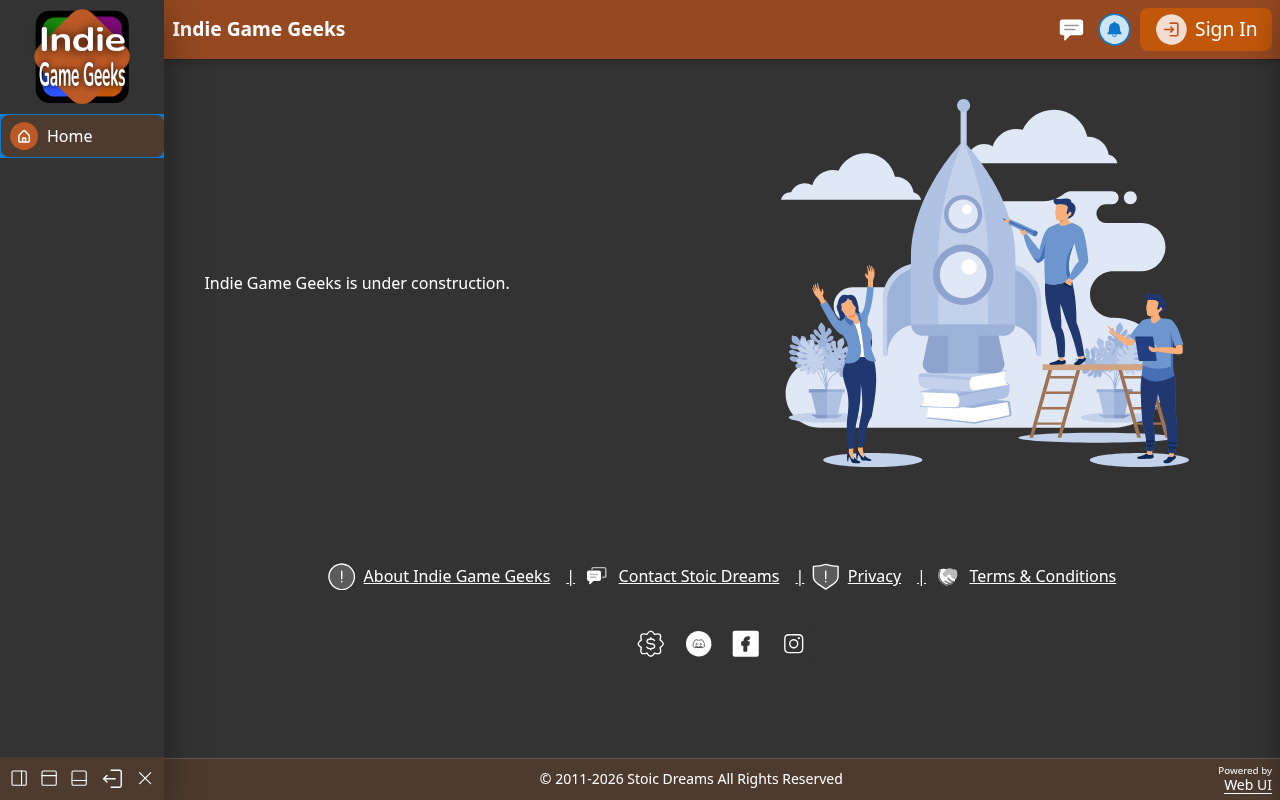
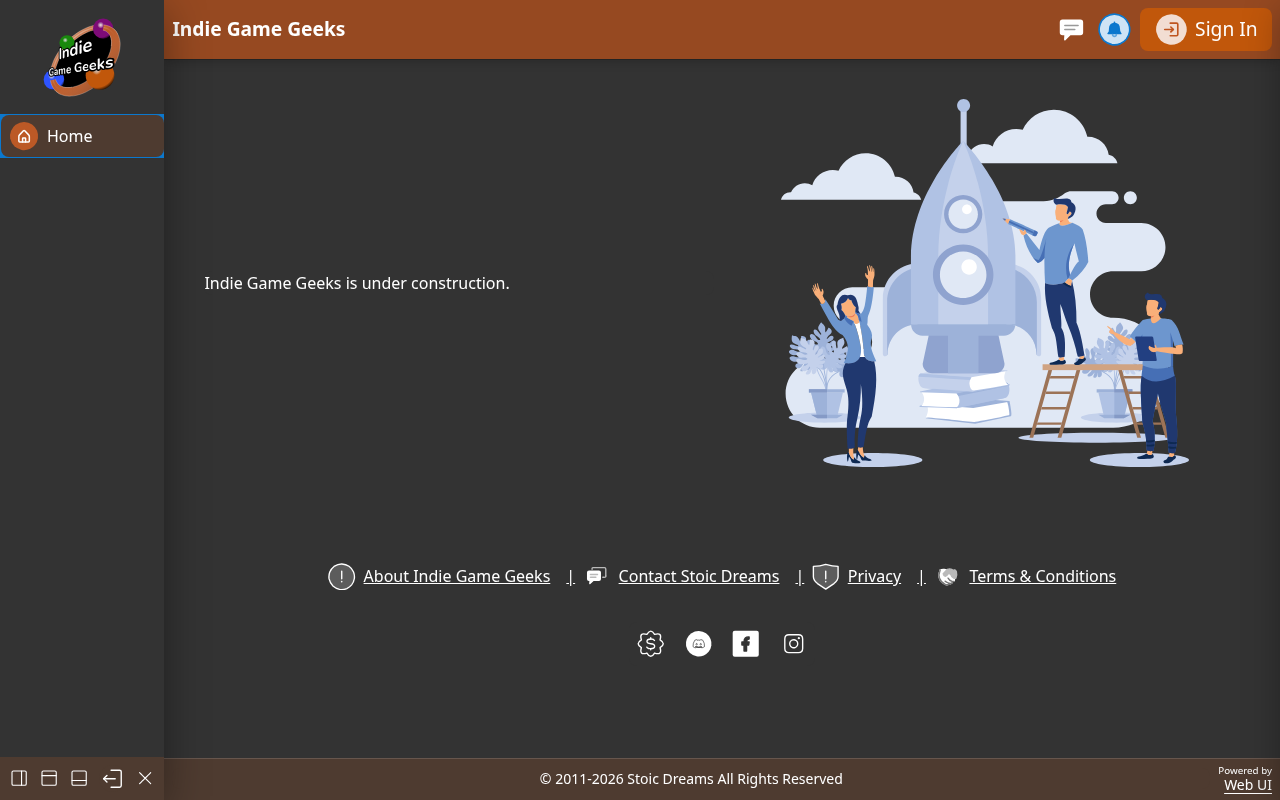
Various updates

Changed region(s): [[0.0, 0.0, 0.125, 0.1562]]

diff --git a/webapp/pages/index.html b/webapp/pages/index.html
@@ -8,7 +8,9 @@
 	<!-- Google tag (gtag.js) -->
 	<script async src="https://www.googletagmanager.com/gtag/js?id=G-653XYE3DV9"></script>
 	<script>
-		if (location.hostname !== 'localhost') {
+		// Pages opened on this machine or another device on the home network load Web UI from the local MyFiCDN server and skip analytics.
+		window.webuiLocal = /^(localhost|127\.0\.0\.1|\[::1\]|10(\.\d+){3}|192\.168(\.\d+){2}|172\.(1[6-9]|2\d|3[01])(\.\d+){2}|[\w-]+\.local)$/.test(location.hostname);
+		if (!webuiLocal) {
 			window.dataLayer = window.dataLayer || [];
 			function gtag() { dataLayer.push(arguments); }
 			gtag('js', new Date());
@@ -21,7 +23,7 @@
 	<meta name="robots" content="index, follow">
 	<base href="/" />
 	<script type="text/javascript">
-		navigator.serviceWorker.register('service-worker.min.js');
+		navigator.serviceWorker?.register('service-worker.min.js');
 	</script>
 
 	<link rel="dns-prefetch" href="https://cdn.myfi.ws" />
@@ -29,13 +31,14 @@
 	<link rel="preconnect" href="https://cdn.myfi.ws">
 	<link rel="preconnect" href="https://api.myfi.ws">
 
-	<link href="Logo.svg?v=05240021df" rel="icon" type="image/svg+xml" sizes="any" />
+	<link href="Logo.svg?v=40eb243e3e" rel="icon" type="image/svg+xml" sizes="any" />
 	<link rel="manifest" href="app.webmanifest?v=02bcce253b">
 
 	<script>
-		// Web UI loads from the local MyFiCDN server (MyFiCDN/PowerShell/RunLocal.ps1) when the site runs on localhost,
+		// Web UI loads from the local MyFiCDN server (MyFiCDN/PowerShell/RunLocal.ps1) when the site runs locally (through /webui-cdn/ on
+		// another device, which RunLocal.ps1 -Network passes on to it),
 		// so framework changes show before they are published, and from cdn.myfi.ws everywhere else.
-		window.webuiCdn = /^(localhost|127\.0\.0\.1|\[::1\])$/.test(location.hostname) ? 'http://localhost:3180/' : 'https://cdn.myfi.ws/';
+		window.webuiCdn = /^(localhost|127\.0\.0\.1|\[::1\])$/.test(location.hostname) ? 'http://localhost:3180/' : webuiLocal ? '/webui-cdn/' : 'https://cdn.myfi.ws/';
 		document.write('<link href="' + webuiCdn + 'css/webui.min.css" rel="stylesheet" />');
 	</script>
 	<link href="css/app.min.css?v=2acc3664b9" rel="stylesheet" />
@@ -80,7 +83,7 @@
 	<link rel="preload" as="script" href="https://cdn.myfi.ws/webui/stoic-dreams-logo.min.js" crossorigin="anonymous" />
 	<link rel="preload" as="script" href="https://cdn.myfi.ws/webui/stoic-social-links.min.js" crossorigin="anonymous" />
 	<link rel="preload" as="script" href="https://cdn.myfi.ws/webui/under-construction.min.js" crossorigin="anonymous" />
-	<meta name="webui-prerender" content="63a9bd2002">
+	<meta name="webui-prerender" content="30a85c6f8f">
 </head>
 
 <body>

diff --git a/webapp/pages/about.html b/webapp/pages/about.html
@@ -8,7 +8,9 @@
 	<!-- Google tag (gtag.js) -->
 	<script async src="https://www.googletagmanager.com/gtag/js?id=G-653XYE3DV9"></script>
 	<script>
-		if (location.hostname !== 'localhost') {
+		// Pages opened on this machine or another device on the home network load Web UI from the local MyFiCDN server and skip analytics.
+		window.webuiLocal = /^(localhost|127\.0\.0\.1|\[::1\]|10(\.\d+){3}|192\.168(\.\d+){2}|172\.(1[6-9]|2\d|3[01])(\.\d+){2}|[\w-]+\.local)$/.test(location.hostname);
+		if (!webuiLocal) {
 			window.dataLayer = window.dataLayer || [];
 			function gtag() { dataLayer.push(arguments); }
 			gtag('js', new Date());
@@ -21,7 +23,7 @@
 	<meta name="robots" content="index, follow">
 	<base href="/" />
 	<script type="text/javascript">
-		navigator.serviceWorker.register('service-worker.min.js');
+		navigator.serviceWorker?.register('service-worker.min.js');
 	</script>
 
 	<link rel="dns-prefetch" href="https://cdn.myfi.ws" />
@@ -29,13 +31,14 @@
 	<link rel="preconnect" href="https://cdn.myfi.ws">
 	<link rel="preconnect" href="https://api.myfi.ws">
 
-	<link href="Logo.svg?v=05240021df" rel="icon" type="image/svg+xml" sizes="any" />
+	<link href="Logo.svg?v=40eb243e3e" rel="icon" type="image/svg+xml" sizes="any" />
 	<link rel="manifest" href="app.webmanifest?v=02bcce253b">
 
 	<script>
-		// Web UI loads from the local MyFiCDN server (MyFiCDN/PowerShell/RunLocal.ps1) when the site runs on localhost,
+		// Web UI loads from the local MyFiCDN server (MyFiCDN/PowerShell/RunLocal.ps1) when the site runs locally (through /webui-cdn/ on
+		// another device, which RunLocal.ps1 -Network passes on to it),
 		// so framework changes show before they are published, and from cdn.myfi.ws everywhere else.
-		window.webuiCdn = /^(localhost|127\.0\.0\.1|\[::1\])$/.test(location.hostname) ? 'http://localhost:3180/' : 'https://cdn.myfi.ws/';
+		window.webuiCdn = /^(localhost|127\.0\.0\.1|\[::1\])$/.test(location.hostname) ? 'http://localhost:3180/' : webuiLocal ? '/webui-cdn/' : 'https://cdn.myfi.ws/';
 		document.write('<link href="' + webuiCdn + 'css/webui.min.css" rel="stylesheet" />');
 	</script>
 	<link href="css/app.min.css?v=2acc3664b9" rel="stylesheet" />
@@ -81,7 +84,7 @@
 	<link rel="preload" as="script" href="https://cdn.myfi.ws/webui/page-footer.min.js" crossorigin="anonymous" />
 	<link rel="preload" as="script" href="https://cdn.myfi.ws/webui/stoic-dreams-logo.min.js" crossorigin="anonymous" />
 	<link rel="preload" as="script" href="https://cdn.myfi.ws/webui/stoic-social-links.min.js" crossorigin="anonymous" />
-	<meta name="webui-prerender" content="0a70a27a9e">
+	<meta name="webui-prerender" content="39973f17a1">
 </head>
 
 <body>

diff --git a/webapp/pages/contact.html b/webapp/pages/contact.html
@@ -8,7 +8,9 @@
 	<!-- Google tag (gtag.js) -->
 	<script async src="https://www.googletagmanager.com/gtag/js?id=G-653XYE3DV9"></script>
 	<script>
-		if (location.hostname !== 'localhost') {
+		// Pages opened on this machine or another device on the home network load Web UI from the local MyFiCDN server and skip analytics.
+		window.webuiLocal = /^(localhost|127\.0\.0\.1|\[::1\]|10(\.\d+){3}|192\.168(\.\d+){2}|172\.(1[6-9]|2\d|3[01])(\.\d+){2}|[\w-]+\.local)$/.test(location.hostname);
+		if (!webuiLocal) {
 			window.dataLayer = window.dataLayer || [];
 			function gtag() { dataLayer.push(arguments); }
 			gtag('js', new Date());
@@ -21,7 +23,7 @@
 	<meta name="robots" content="index, follow">
 	<base href="/" />
 	<script type="text/javascript">
-		navigator.serviceWorker.register('service-worker.min.js');
+		navigator.serviceWorker?.register('service-worker.min.js');
 	</script>
 
 	<link rel="dns-prefetch" href="https://cdn.myfi.ws" />
@@ -29,13 +31,14 @@
 	<link rel="preconnect" href="https://cdn.myfi.ws">
 	<link rel="preconnect" href="https://api.myfi.ws">
 
-	<link href="Logo.svg?v=05240021df" rel="icon" type="image/svg+xml" sizes="any" />
+	<link href="Logo.svg?v=40eb243e3e" rel="icon" type="image/svg+xml" sizes="any" />
 	<link rel="manifest" href="app.webmanifest?v=02bcce253b">
 
 	<script>
-		// Web UI loads from the local MyFiCDN server (MyFiCDN/PowerShell/RunLocal.ps1) when the site runs on localhost,
+		// Web UI loads from the local MyFiCDN server (MyFiCDN/PowerShell/RunLocal.ps1) when the site runs locally (through /webui-cdn/ on
+		// another device, which RunLocal.ps1 -Network passes on to it),
 		// so framework changes show before they are published, and from cdn.myfi.ws everywhere else.
-		window.webuiCdn = /^(localhost|127\.0\.0\.1|\[::1\])$/.test(location.hostname) ? 'http://localhost:3180/' : 'https://cdn.myfi.ws/';
+		window.webuiCdn = /^(localhost|127\.0\.0\.1|\[::1\])$/.test(location.hostname) ? 'http://localhost:3180/' : webuiLocal ? '/webui-cdn/' : 'https://cdn.myfi.ws/';
 		document.write('<link href="' + webuiCdn + 'css/webui.min.css" rel="stylesheet" />');
 	</script>
 	<link href="css/app.min.css?v=2acc3664b9" rel="stylesheet" />
@@ -81,7 +84,7 @@
 	<link rel="preload" as="script" href="https://cdn.myfi.ws/webui/page-footer.min.js" crossorigin="anonymous" />
 	<link rel="preload" as="script" href="https://cdn.myfi.ws/webui/stoic-dreams-logo.min.js" crossorigin="anonymous" />
 	<link rel="preload" as="script" href="https://cdn.myfi.ws/webui/stoic-social-links.min.js" crossorigin="anonymous" />
-	<meta name="webui-prerender" content="fd07581190">
+	<meta name="webui-prerender" content="636a3187a2">
 </head>
 
 <body>

diff --git a/webapp/pages/privacy.html b/webapp/pages/privacy.html
@@ -8,7 +8,9 @@
 	<!-- Google tag (gtag.js) -->
 	<script async src="https://www.googletagmanager.com/gtag/js?id=G-653XYE3DV9"></script>
 	<script>
-		if (location.hostname !== 'localhost') {
+		// Pages opened on this machine or another device on the home network load Web UI from the local MyFiCDN server and skip analytics.
+		window.webuiLocal = /^(localhost|127\.0\.0\.1|\[::1\]|10(\.\d+){3}|192\.168(\.\d+){2}|172\.(1[6-9]|2\d|3[01])(\.\d+){2}|[\w-]+\.local)$/.test(location.hostname);
+		if (!webuiLocal) {
 			window.dataLayer = window.dataLayer || [];
 			function gtag() { dataLayer.push(arguments); }
 			gtag('js', new Date());
@@ -21,7 +23,7 @@
 	<meta name="robots" content="index, follow">
 	<base href="/" />
 	<script type="text/javascript">
-		navigator.serviceWorker.register('service-worker.min.js');
+		navigator.serviceWorker?.register('service-worker.min.js');
 	</script>
 
 	<link rel="dns-prefetch" href="https://cdn.myfi.ws" />
@@ -29,13 +31,14 @@
 	<link rel="preconnect" href="https://cdn.myfi.ws">
 	<link rel="preconnect" href="https://api.myfi.ws">
 
-	<link href="Logo.svg?v=05240021df" rel="icon" type="image/svg+xml" sizes="any" />
+	<link href="Logo.svg?v=40eb243e3e" rel="icon" type="image/svg+xml" sizes="any" />
 	<link rel="manifest" href="app.webmanifest?v=02bcce253b">
 
 	<script>
-		// Web UI loads from the local MyFiCDN server (MyFiCDN/PowerShell/RunLocal.ps1) when the site runs on localhost,
+		// Web UI loads from the local MyFiCDN server (MyFiCDN/PowerShell/RunLocal.ps1) when the site runs locally (through /webui-cdn/ on
+		// another device, which RunLocal.ps1 -Network passes on to it),
 		// so framework changes show before they are published, and from cdn.myfi.ws everywhere else.
-		window.webuiCdn = /^(localhost|127\.0\.0\.1|\[::1\])$/.test(location.hostname) ? 'http://localhost:3180/' : 'https://cdn.myfi.ws/';
+		window.webuiCdn = /^(localhost|127\.0\.0\.1|\[::1\])$/.test(location.hostname) ? 'http://localhost:3180/' : webuiLocal ? '/webui-cdn/' : 'https://cdn.myfi.ws/';
 		document.write('<link href="' + webuiCdn + 'css/webui.min.css" rel="stylesheet" />');
 	</script>
 	<link href="css/app.min.css?v=2acc3664b9" rel="stylesheet" />
@@ -81,7 +84,7 @@
 	<link rel="preload" as="script" href="https://cdn.myfi.ws/webui/page-footer.min.js" crossorigin="anonymous" />
 	<link rel="preload" as="script" href="https://cdn.myfi.ws/webui/stoic-dreams-logo.min.js" crossorigin="anonymous" />
 	<link rel="preload" as="script" href="https://cdn.myfi.ws/webui/stoic-social-links.min.js" crossorigin="anonymous" />
-	<meta name="webui-prerender" content="28bc228921">
+	<meta name="webui-prerender" content="72263a2b95">
 </head>
 
 <body>

diff --git a/webapp/pages/terms.html b/webapp/pages/terms.html
@@ -8,7 +8,9 @@
 	<!-- Google tag (gtag.js) -->
 	<script async src="https://www.googletagmanager.com/gtag/js?id=G-653XYE3DV9"></script>
 	<script>
-		if (location.hostname !== 'localhost') {
+		// Pages opened on this machine or another device on the home network load Web UI from the local MyFiCDN server and skip analytics.
+		window.webuiLocal = /^(localhost|127\.0\.0\.1|\[::1\]|10(\.\d+){3}|192\.168(\.\d+){2}|172\.(1[6-9]|2\d|3[01])(\.\d+){2}|[\w-]+\.local)$/.test(location.hostname);
+		if (!webuiLocal) {
 			window.dataLayer = window.dataLayer || [];
 			function gtag() { dataLayer.push(arguments); }
 			gtag('js', new Date());
@@ -21,7 +23,7 @@
 	<meta name="robots" content="index, follow">
 	<base href="/" />
 	<script type="text/javascript">
-		navigator.serviceWorker.register('service-worker.min.js');
+		navigator.serviceWorker?.register('service-worker.min.js');
 	</script>
 
 	<link rel="dns-prefetch" href="https://cdn.myfi.ws" />
@@ -29,13 +31,14 @@
 	<link rel="preconnect" href="https://cdn.myfi.ws">
 	<link rel="preconnect" href="https://api.myfi.ws">
 
-	<link href="Logo.svg?v=05240021df" rel="icon" type="image/svg+xml" sizes="any" />
+	<link href="Logo.svg?v=40eb243e3e" rel="icon" type="image/svg+xml" sizes="any" />
 	<link rel="manifest" href="app.webmanifest?v=02bcce253b">
 
 	<script>
-		// Web UI loads from the local MyFiCDN server (MyFiCDN/PowerShell/RunLocal.ps1) when the site runs on localhost,
+		// Web UI loads from the local MyFiCDN server (MyFiCDN/PowerShell/RunLocal.ps1) when the site runs locally (through /webui-cdn/ on
+		// another device, which RunLocal.ps1 -Network passes on to it),
 		// so framework changes show before they are published, and from cdn.myfi.ws everywhere else.
-		window.webuiCdn = /^(localhost|127\.0\.0\.1|\[::1\])$/.test(location.hostname) ? 'http://localhost:3180/' : 'https://cdn.myfi.ws/';
+		window.webuiCdn = /^(localhost|127\.0\.0\.1|\[::1\])$/.test(location.hostname) ? 'http://localhost:3180/' : webuiLocal ? '/webui-cdn/' : 'https://cdn.myfi.ws/';
 		document.write('<link href="' + webuiCdn + 'css/webui.min.css" rel="stylesheet" />');
 	</script>
 	<link href="css/app.min.css?v=2acc3664b9" rel="stylesheet" />
@@ -81,7 +84,7 @@
 	<link rel="preload" as="script" href="https://cdn.myfi.ws/webui/page-footer.min.js" crossorigin="anonymous" />
 	<link rel="preload" as="script" href="https://cdn.myfi.ws/webui/stoic-dreams-logo.min.js" crossorigin="anonymous" />
 	<link rel="preload" as="script" href="https://cdn.myfi.ws/webui/stoic-social-links.min.js" crossorigin="anonymous" />
-	<meta name="webui-prerender" content="cb144342dc">
+	<meta name="webui-prerender" content="9cf8b79b38">
 </head>
 
 <body>

diff --git a/webapp/root_files/service-worker.min.js b/webapp/root_files/service-worker.min.js
@@ -1,1 +1,1 @@
-self.addEventListener("install",t=>t.waitUntil(onInstall(t))),self.addEventListener("activate",t=>t.waitUntil(onActivate(t))),self.addEventListener("fetch",t=>{const e=new URL(t.request.url);e.protocol==="ipc:"||e.protocol==="tauri:"||e.hostname==="ipc.localhost"||e.hostname==="tauri.localhost"||e.hostname.startsWith("127")||e.hostname==="localhost"||t.request.url.startsWith("http")&&allowCache(t.request)&&t.respondWith(onFetch(t))});const currentVersion="0.1.27",cacheNamePrefix="offline-cache-",cacheName=`${cacheNamePrefix}${currentVersion}`;async function onInstall(t){self.skipWaiting()}async function onActivate(t){const e=await caches.keys();await Promise.all(e.filter(a=>a.startsWith(cacheNamePrefix)&&a!==cacheName).map(a=>caches.delete(a))),await self.clients.claim()}async function onFetch(t){const e=await caches.open(cacheName);let a;try{a=await fetch(applyCacheBusting(t.request))}catch(n){const c=await e.match(t.request);if(c)return c;throw n}return a.ok?(t.waitUntil(e.put(t.request,a.clone()).catch(()=>{})),a):await e.match(t.request)||a}function applyCacheBusting(t){try{const e=new URL(t.url);return e.searchParams.set("_",Date.now()),new Request(e.toString(),t)}catch{return t}}function allowCache(t){return!(t.method!=="GET"||t.mode==="navigate")}
+self.addEventListener("install",t=>t.waitUntil(onInstall(t))),self.addEventListener("activate",t=>t.waitUntil(onActivate(t))),self.addEventListener("fetch",t=>{const e=new URL(t.request.url);e.protocol==="ipc:"||e.protocol==="tauri:"||e.hostname==="ipc.localhost"||e.hostname==="tauri.localhost"||e.hostname.startsWith("127")||e.hostname==="localhost"||t.request.url.startsWith("http")&&allowCache(t.request)&&t.respondWith(onFetch(t))});const currentVersion="0.1.28",cacheNamePrefix="offline-cache-",cacheName=`${cacheNamePrefix}${currentVersion}`;async function onInstall(t){self.skipWaiting()}async function onActivate(t){const e=await caches.keys();await Promise.all(e.filter(a=>a.startsWith(cacheNamePrefix)&&a!==cacheName).map(a=>caches.delete(a))),await self.clients.claim()}async function onFetch(t){const e=await caches.open(cacheName);let a;try{a=await fetch(applyCacheBusting(t.request))}catch(n){const c=await e.match(t.request);if(c)return c;throw n}return a.ok?(t.waitUntil(e.put(t.request,a.clone()).catch(()=>{})),a):await e.match(t.request)||a}function applyCacheBusting(t){try{const e=new URL(t.url);return e.searchParams.set("_",Date.now()),new Request(e.toString(),t)}catch{return t}}function allowCache(t){return!(t.method!=="GET"||t.mode==="navigate")}

diff --git a/webapp/index.html b/webapp/index.html
@@ -8,7 +8,9 @@
 	<!-- Google tag (gtag.js) -->
 	<script async src="https://www.googletagmanager.com/gtag/js?id=G-653XYE3DV9"></script>
 	<script>
-		if (location.hostname !== 'localhost') {
+		// Pages opened on this machine or another device on the home network load Web UI from the local MyFiCDN server and skip analytics.
+		window.webuiLocal = /^(localhost|127\.0\.0\.1|\[::1\]|10(\.\d+){3}|192\.168(\.\d+){2}|172\.(1[6-9]|2\d|3[01])(\.\d+){2}|[\w-]+\.local)$/.test(location.hostname);
+		if (!webuiLocal) {
 			window.dataLayer = window.dataLayer || [];
 			function gtag() { dataLayer.push(arguments); }
 			gtag('js', new Date());
@@ -21,7 +23,7 @@
 	<meta name="robots" content="index, follow">
 	<base href="/" />
 	<script type="text/javascript">
-		navigator.serviceWorker.register('service-worker.min.js');
+		navigator.serviceWorker?.register('service-worker.min.js');
 	</script>
 
 	<link rel="dns-prefetch" href="https://cdn.myfi.ws" />
@@ -33,9 +35,10 @@
 	<link rel="manifest" href="app.webmanifest">
 
 	<script>
-		// Web UI loads from the local MyFiCDN server (MyFiCDN/PowerShell/RunLocal.ps1) when the site runs on localhost,
+		// Web UI loads from the local MyFiCDN server (MyFiCDN/PowerShell/RunLocal.ps1) when the site runs locally (through /webui-cdn/ on
+		// another device, which RunLocal.ps1 -Network passes on to it),
 		// so framework changes show before they are published, and from cdn.myfi.ws everywhere else.
-		window.webuiCdn = /^(localhost|127\.0\.0\.1|\[::1\])$/.test(location.hostname) ? 'http://localhost:3180/' : 'https://cdn.myfi.ws/';
+		window.webuiCdn = /^(localhost|127\.0\.0\.1|\[::1\])$/.test(location.hostname) ? 'http://localhost:3180/' : webuiLocal ? '/webui-cdn/' : 'https://cdn.myfi.ws/';
 		document.write('<link href="' + webuiCdn + 'css/webui.min.css" rel="stylesheet" />');
 	</script>
 	<link href="css/app.min.css" rel="stylesheet" />

diff --git a/webapp/root_files/service-worker.js b/webapp/root_files/service-worker.js
@@ -20,7 +20,7 @@ self.addEventListener('fetch', event => {
     }
     event.respondWith(onFetch(event))
 });
-const currentVersion = '0.1.27';
+const currentVersion = '0.1.28';
 const cacheNamePrefix = 'offline-cache-';
 const cacheName = `${cacheNamePrefix}${currentVersion}`;
 async function onInstall(event) {

diff --git a/.taskproxy/pages/ac85bdfa-a20f-4a90-b6b7-2de73f5e92c8.md b/.taskproxy/pages/ac85bdfa-a20f-4a90-b6b7-2de73f5e92c8.md
@@ -6,7 +6,13 @@
 
 Run Indie Game Geeks. The script lists any missing tools before building. Rust build output goes to `D:\CargoTargets` on Windows, or `~/CargoTargets` elsewhere.
 
-Run Indie Game Geeks at http://localhost:8101
+Run Indie Game Geeks at http://localhost:8101, and on the network at the address it prints, for your phone or laptop
+
+```pwsh
+./PowerShell/RunLocal.ps1 -Network
+```
+
+Run it for this machine only
 
 ```pwsh
 ./PowerShell/RunLocal.ps1
@@ -15,13 +21,13 @@ Run Indie Game Geeks at http://localhost:8101
 Run on a different port
 
 ```pwsh
-./PowerShell/RunLocal.ps1 -Port 8201
+./PowerShell/RunLocal.ps1 -Port 8201 -Network
 ```
 
 Clean the Rust build, then run
 
 ```pwsh
-./PowerShell/RunLocal.ps1 -clean
+./PowerShell/RunLocal.ps1 -clean -Network
 ```
 
 Build the Rust code without starting the site

diff --git a/Docs/README.md b/Docs/README.md
@@ -1,6 +1,6 @@
 # Indie Game Geeks
 
-[Version: 0.1.27](https://github.com/StoicDreams/IndieGameGeeks)
+[Version: 0.1.28](https://github.com/StoicDreams/IndieGameGeeks)
 
 [WebUI](https://github.com/StoicDreams/WebUI)
 
